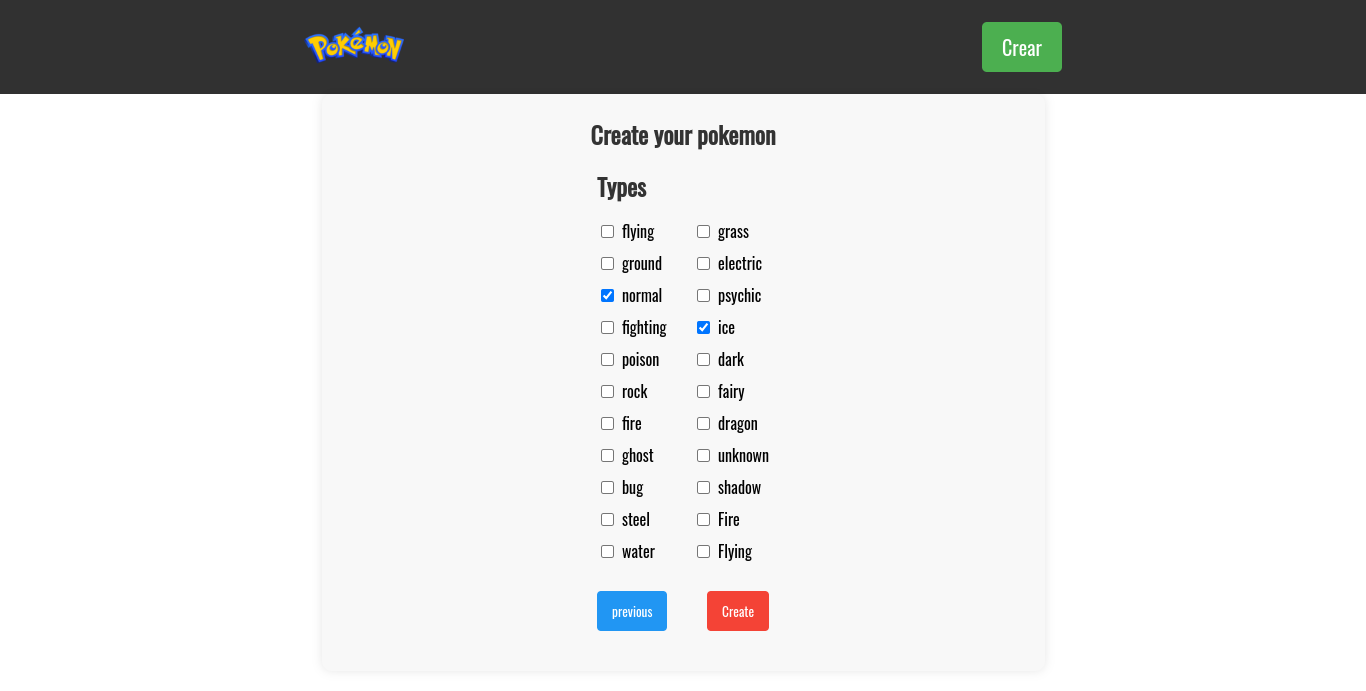
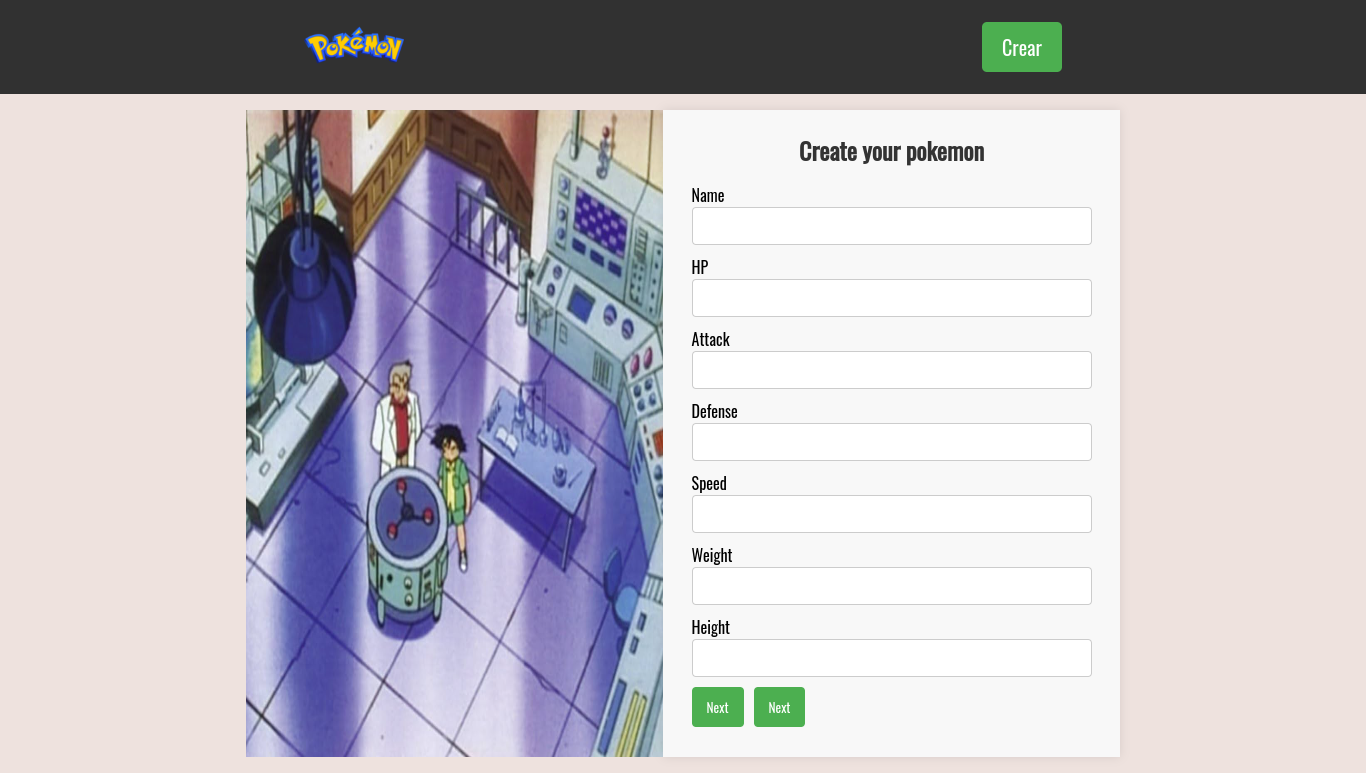
Improving the responsive styling of the Detail and Create components.

diff --git a/client/src/app/components/Create/Create.jsx b/client/src/app/components/Create/Create.jsx
@@ -8,6 +8,7 @@ import validator from './validator';
 import { useNavigate } from 'react-router-dom';
 import { useDispatch } from 'react-redux';
 import { getAllPokemons } from '../../redux/actions';
+import lab1 from '../../../images/lab1.jpg';
 
 
 export const Create = props => {
@@ -101,21 +102,29 @@ export const Create = props => {
     };
 
     return (
-        <div className={styles.container}>
-            <div>
-                <h2>Create your pokemon</h2>
+        <div className={styles.createContainer}>
+            <div className={styles.imgContainer}>
+                <img src={lab1} alt="" />
             </div>
-            <CreateForm
-                currentStep={currentStep}
-                pokeData={pokeData}
-                errors={errors}
-                allTypes={allTypes}
-                handleInput={handleInput}
-                handleCheckboxChange={handleCheckboxChange}
-                handleNext={handleNext}
-                handlePrevious={handlePrevious}
-                handleSubmit={handleSubmit}
-            />
+            <div className={styles.formContainer}>
+                <div>
+                    <h2>Create your pokemon</h2>
+                </div>
+                <div className={styles.right}>
+                    <CreateForm
+                        currentStep={currentStep}
+                        pokeData={pokeData}
+                        errors={errors}
+                        allTypes={allTypes}
+                        handleInput={handleInput}
+                        handleCheckboxChange={handleCheckboxChange}
+                        handleNext={handleNext}
+                        handlePrevious={handlePrevious}
+                        handleSubmit={handleSubmit}
+                    />
+                </div>
+
+            </div>
         </div>
     );
 

diff --git a/client/src/app/components/Create/components/CreateForm/CreateForm.jsx b/client/src/app/components/Create/components/CreateForm/CreateForm.jsx
@@ -18,9 +18,11 @@ export const CreateForm = ({
                     <div className={styles.wrapper}>
                         <label htmlFor="" className={styles.label}>Name</label>
                         <input onInput={handleInput} name='name' type="text" value={pokeData.name} />
-                        {errors.name1 && <p>{errors.name1}</p>}
-                        {errors.name2 && <p>{errors.name2}</p>}
-                        {errors.name3 && <p>{errors.name3}</p>}
+                        <div className={styles.error}>
+                            {errors.name1 && <p>{errors.name1}</p>}
+                            {errors.name2 && <p>{errors.name2}</p>}
+                            {errors.name3 && <p>{errors.name3}</p>}
+                        </div>
                     </div>
 
                     <div className={styles.wrapper}>

diff --git a/client/src/app/components/Create/Create.module.css b/client/src/app/components/Create/Create.module.css
@@ -1,18 +1,51 @@
-.container {
+.createContainer {
+    display: flex;
+    flex-direction: row;
+    margin: 1rem 18%;
+    height: 90%;
+}
+
+.formContainer {
+    flex: 1;
     padding: 20px;
     display: flex;
     flex-direction: column;
     align-items: center;
     justify-content: center;
     background-color: #f8f8f8;
-    border-radius: 10px;
     box-shadow: 0 0 10px rgba(0, 0, 0, 0.1);
     width: 50%;
     margin: 0 auto;
 }
 
+.right {
+    width: 100%;
+}
+
+.imgContainer {
+    flex: 1; /* Ocupa el 40% del ancho disponible */
+}
+
+.imgContainer img {
+   width: 100%;
+   height: 100%;
+}
 
 h2 {
     color: #333;
     margin-bottom: 15px;
+}
+
+form {
+    width: 100%;
+    max-width: 400px; 
+    margin: 0 auto;
+}
+
+.imgContainer {
+
+}
+
+.imgContainer img {
+   width: 100%;
 }

diff --git a/client/src/app/components/Create/components/CreateForm/CreateForm.module.css b/client/src/app/components/Create/components/CreateForm/CreateForm.module.css
@@ -1,5 +1,6 @@
 .formSection {
-    margin-bottom: 20px;
+    margin-bottom: 10px;
+    width: 100%;
 }
 
 .wrapper input {
@@ -41,6 +42,10 @@
     box-sizing: border-box;
 }
 
+.wrapper p {
+    font-size: 10px;
+}
+
 input[type="checkbox"] {
     margin-right: 8px;
 }
@@ -71,15 +76,12 @@ p {
 
 .btnPrev {
     background-color: #2196f3;
-    /* Cambia el color de fondo para el botón "Previous" */
 }
 
 .btnSub {
     background-color: #f44336;
-    /* Cambia el color de fondo para el botón "Create" */
 }
 
-/* Espacio entre los botones */
 .btnPrev,
 .btnNext {
     margin-right: 10px;

diff --git a/client/src/app/components/Detail/Detail.module.css b/client/src/app/components/Detail/Detail.module.css
@@ -14,6 +14,7 @@
     overflow: hidden;
     padding: 1.5rem;
     background-color: #fff;
+    height: 24rem;
 }
 
 .row {
@@ -167,6 +168,9 @@ span {
 
 
 @media screen and (max-width: 575px) {
+    .card {
+        height: 37.5rem;
+    }
     .row {
         flex-direction: column;
     }
